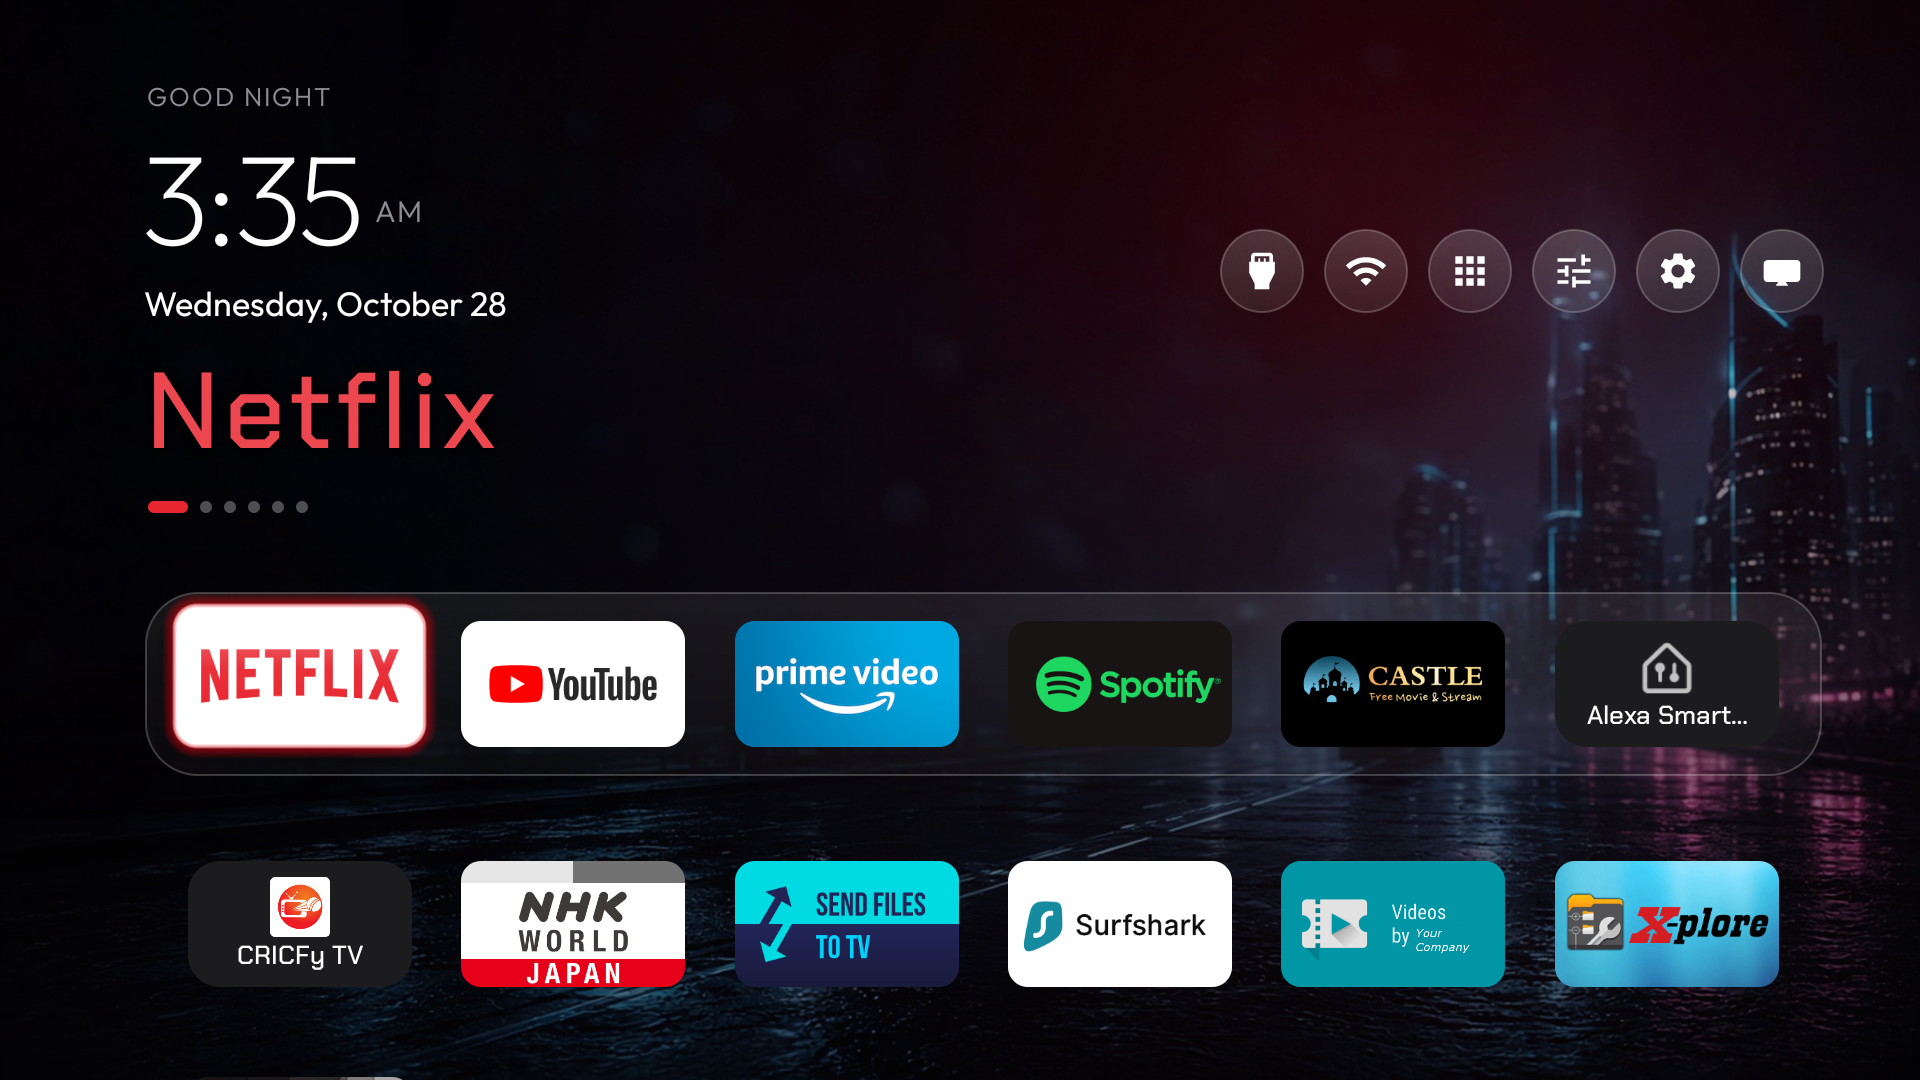
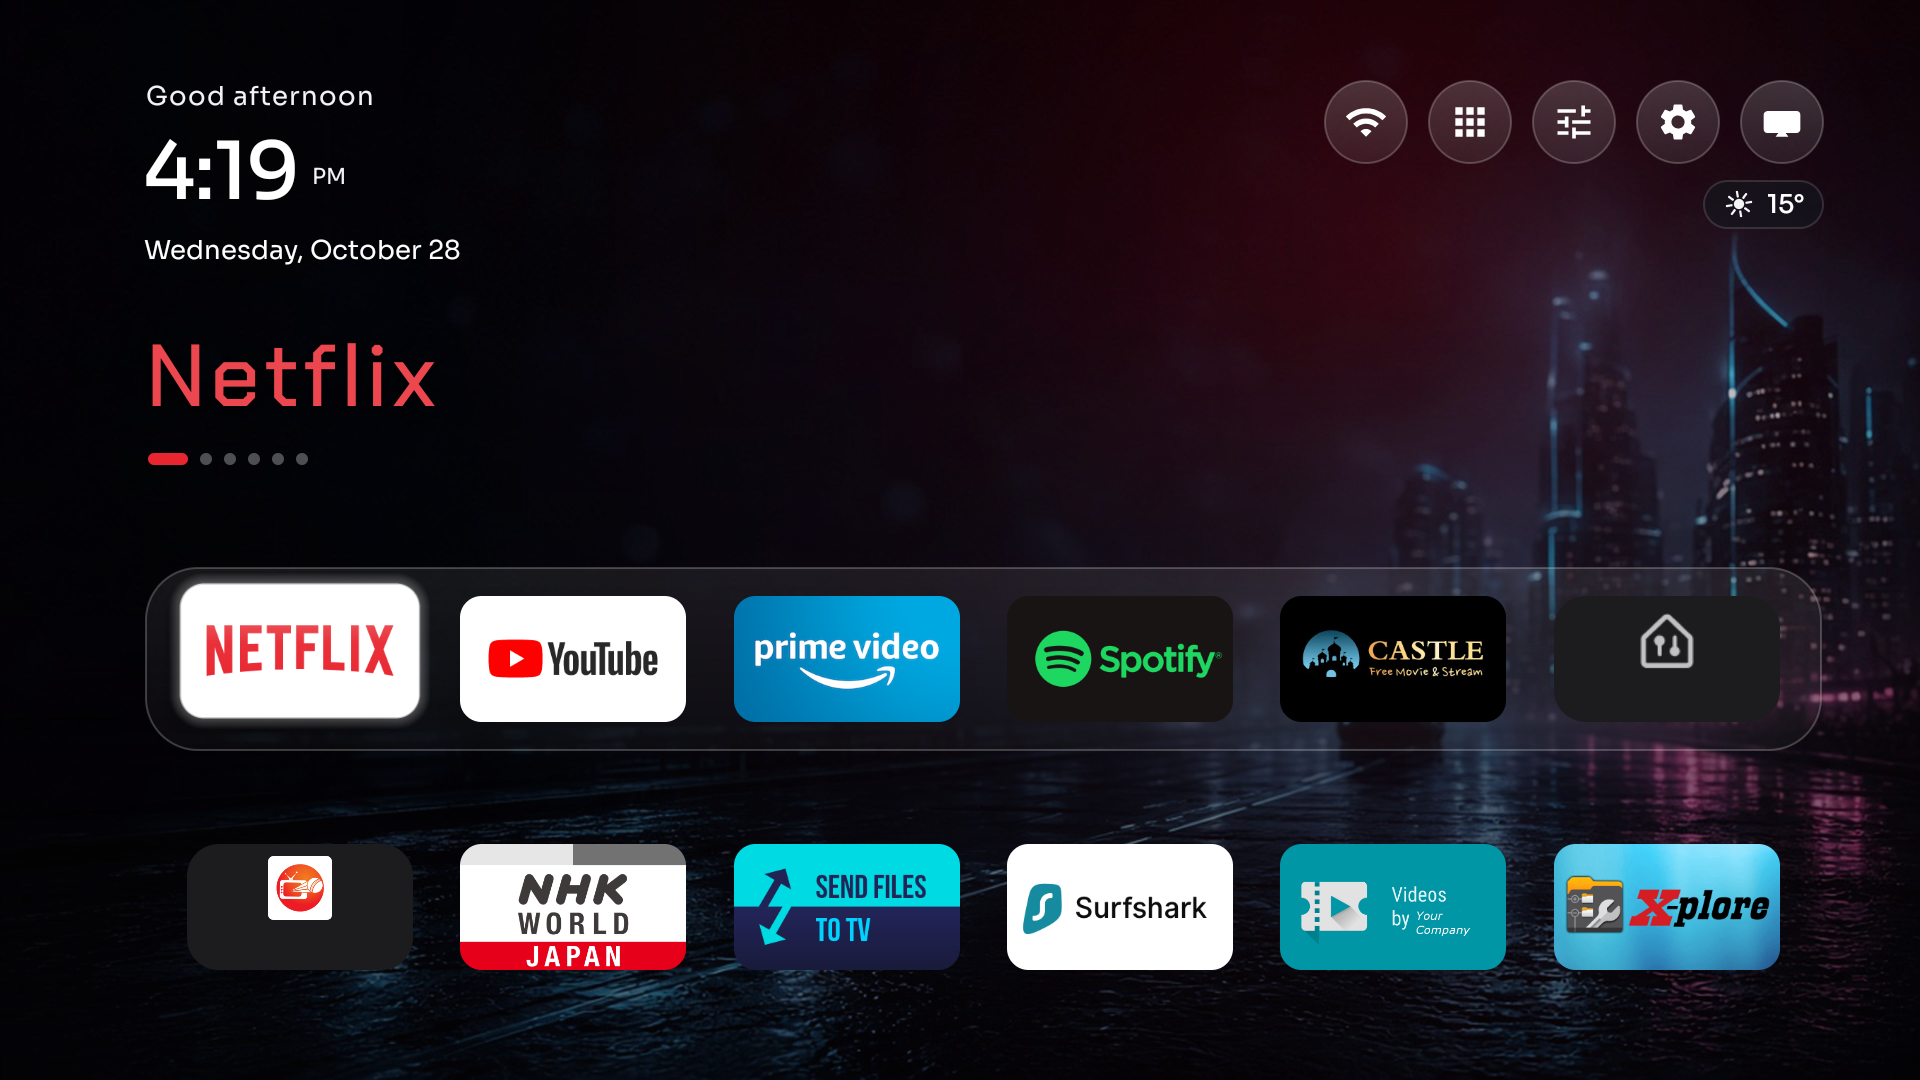
docs: a current home picture, and a guide that starts with install
The app name sits a little lower, matching the screen on the stick.

diff --git a/launcher/app/src/main/java/com/gathin/tvhome/MainActivity.java b/launcher/app/src/main/java/com/gathin/tvhome/MainActivity.java
@@ -1833,7 +1833,7 @@ public class MainActivity extends Activity implements AppAdapter.TileListener {
         int[] rootAt = new int[2];
         header.getLocationOnScreen(headerAt);
         root.getLocationOnScreen(rootAt);
-        return headerAt[1] - rootAt[1] + header.getHeight() + 8f * density;
+        return headerAt[1] - rootAt[1] + header.getHeight() + 26f * density;
     }
 
     private void showHero(int position, float anchorTop) {

diff --git a/README.md b/README.md
@@ -2,17 +2,70 @@
 
 # Cyber Fire TV
 
-A calm home screen for a Fire TV Stick.
+A quiet home screen for a Fire TV Stick.
 
 Press **Home**. Cyber opens.
 Your apps stay. The ads go quiet.
 Nothing is deleted.
 
-<img src="docs/home.png" alt="Cyber home screen: greeting, clock, the app name, and a row of apps" width="920">
+<img src="docs/home.png" alt="Cyber home: greeting, clock, the app name, and two rows of apps" width="920">
 
-<sub>Greeting and clock on the left. The app you are on, in the middle. Your apps along the bottom.</sub>
+<sub>Time on the left. The app you are on, in the middle. Your apps along the bottom. Pictures only.</sub>
 
 </div>
+
+---
+
+## Put it on the stick
+
+The stick and the computer sit on the **same Wi-Fi**.
+One command does the rest.
+
+```text
+        YOUR COMPUTER                         FIRE TV STICK
+   ┌──────────────────────┐              ┌──────────────────────┐
+   │                      │              │                      │
+   │    ./install.sh      │  same Wi-Fi  │   ADB debugging on   │
+   │                      │ ───────────► │   Unknown sources    │
+   │                      │              │                      │
+   └──────────────────────┘              └──────────────────────┘
+              │                                      │
+              │   1   ads go quiet                   │
+              │   2   Cyber is built                 │
+              │   3   the night look is applied      │
+              │   4   Home opens Cyber               ▼
+                                                Cyber is on screen
+```
+
+### On the stick, four taps
+
+1. **Settings → My Fire TV → Developer options**
+2. Turn on **ADB debugging**
+3. Turn on **Apps from Unknown Sources**
+4. **Settings → My Fire TV → About → Network** — write down the address
+
+### On the computer
+
+You need [JDK 17](https://adoptium.net/). On a Mac: `brew install openjdk@17`.
+
+```sh
+git clone https://github.com/RajNadiger/cyber-fire-tv.git
+cd cyber-fire-tv
+./install.sh 192.168.1.50
+```
+
+`192.168.1.50` is only an example. Type the address from the stick.
+
+When it finishes, press **Home**. Cyber is there.
+
+```text
+   you press Home
+         │
+         ▼
+   Cyber                    clock, name, your apps
+```
+
+The **TV** button opens Amazon’s own home. It stays until you press Home again.
 
 ---
 
@@ -20,8 +73,9 @@ Nothing is deleted.
 
 ```text
 ┌──────────────────────────────────────────────────────────────┐
-│  Good morning                              weather · buttons │
-│  9:41          Wednesday                              TV     │
+│  Good afternoon                            weather · buttons │
+│  4:19 PM                                                   │
+│  Wednesday, October 28                                      │
 │                                                              │
 │  Netflix                    the name stays on this line      │
 │  ━  ·  ·  ·  ·              the mark moves, the name does not│
@@ -29,34 +83,30 @@ Nothing is deleted.
 │  ┌──────┐ ┌──────┐ ┌──────┐ ┌──────┐ ┌──────┐ ┌──────┐      │
 │  │      │ │      │ │      │ │      │ │      │ │      │      │
 │  └──────┘ └──────┘ └──────┘ └──────┘ └──────┘ └──────┘      │
-│   the glass row. Pictures only. No words on the tiles.       │
+│   the glass row. Pictures only.                              │
 │                                                              │
 │   ┌────┐  ┌────┐  ┌────┐  ┌────┐  ┌────┐  ┌────┐            │
 │   └────┘  └────┘  └────┘  └────┘  └────┘  └────┘            │
-│   the next row, fully on screen, no names underneath        │
+│   the next row, fully on screen. No names under the pictures│
 └──────────────────────────────────────────────────────────────┘
 ```
 
 | You look at | It means |
 | --- | --- |
-| Greeting, clock, date | The time of day. The letters stay light. |
-| Large name | The app you have selected. It stays in the same place as you move left and right. Its colour follows that app. |
-| Short line and dots | Where you are along the row. “Last opened” sits under the name when there is one, and does not move the name. |
-| Glass row | Your main apps. Pictures only. Left and right. Press the centre to open one. |
+| Greeting, clock, date | The time of day. |
+| Large name | The app you have selected. It stays in the same place as you move. Its colour follows that app. |
+| Short line and dots | Where you are along the row. “Last opened” sits under the name and does not move it. |
+| Glass row | Your main apps. Pictures only. Press the centre to open one. |
 | The row under it | The next apps, fully on screen. No names under those pictures. |
-| Weather | A small live forecast at the top. Press it for the next hours. |
-| Round buttons | Wi-Fi, apps, and settings. The one you are on shows its name. A Fire TV Stick has no HDMI ports of its own, so there is no Inputs button. |
-| **TV** | Amazon’s own home. It stays until you press Home. |
+| Weather | A small forecast at the top. Press it for the next hours. |
+| Round buttons | Wi-Fi, apps, and settings. The one you are on shows its name. A Fire TV Stick has no HDMI ports, so there is no Inputs button. |
+| **TV** | Amazon’s own home, until you press Home. |
 
 ---
 
 ## The remote
 
 ```text
-                    ┌─────────┐
-                    │  power  │
-                    └─────────┘
-
                     ┌─────────┐
                     │  HOME   │     opens Cyber
                     └─────────┘
@@ -70,30 +120,18 @@ Nothing is deleted.
                     └─────────┘
 ```
 
-Home opens Cyber, including when you were in Netflix, YouTube, or any other app.
-After you tap the **TV** button, Amazon’s home stays up. Home brings Cyber back.
-
 ```text
-   left  /  right     move along a row, and stop at the ends
-   down             the same column, one row lower
-   down again       Restore, Second screen, then App library
-   up               back the way you came
-   up from the top  the round buttons. The chosen one shows its name
+   left  /  right     along a row, and stop at the ends
+   down               the same column, one row lower
+   down again         Restore, Second screen, then App library
+   up                 back the way you came
+   up from the top    the round buttons. The chosen one shows its name
 ```
 
-The top row stays in place when you move to the row under it. The name stays above the apps. One more step down keeps that row on screen and shows Restore and Second screen under it, each with its name. Right stops at the end of a row. Down from there reaches **App library**. Up comes back the same way.
+Home opens Cyber from Netflix, YouTube, or any other app.
+After the stick sleeps and wakes, Home still opens Cyber.
 
-Fire TV sometimes holds Amazon’s screen for a few seconds. That pause is Fire TV. Cyber comes forward as soon as the stick allows it.
-
-```text
-   you press Home
-         │
-         ▼
-   Amazon’s screen          a short pause, on some sticks
-         │
-         ▼
-   Cyber                    your clock, your apps
-```
+The top row stays in place when you move to the row under it. One more step down keeps that row on screen and shows Restore and Second screen, each with its name.
 
 ---
 
@@ -105,7 +143,7 @@ Open **Settings**, then **Your apps**.
    Your apps
    ┌─────────────────────┐     ┌─────────────────────┐
    │  Netflix            │     │                     │
-   │  YouTube            │     │      the tile       │
+   │  YouTube            │     │      the picture    │
    │  Prime Video     ▶  │ ──► │                     │
    │  Spotify            │     │   the name you set  │
    └─────────────────────┘     └─────────────────────┘
@@ -123,8 +161,6 @@ Open **Settings**, then **Your apps**.
 | The app’s own look back | **Put the app’s own look back**. |
 
 Home updates when you leave Settings.
-
-A picture can also be a jpg or png you copy into the stick’s `icons` folder, or into `mywallpapers`. Then open **Change the picture** again.
 
 **Font**, on the settings page, changes the letters for the clock, the date, and the names, all together.
 
@@ -162,10 +198,6 @@ Put `.jpg` or `.png` files here, with a file manager on the stick:
 
 ```text
 Android/data/com.gathin.tvhome/files/mywallpapers
-        │
-        ├──  night.jpg
-        ├──  rain.png
-        └──  desk.webp
 ```
 
 ---
@@ -180,50 +212,9 @@ Open **Second screen** on the TV. The screen itself is the guide.
    3  Press OK           the computer’s name appears, then the picture
 ```
 
-The panel on the right waits, then turns flat and offers **Show this screen**. Press OK. Back leaves the picture and returns to the guide.
-
 The computer needs [ffmpeg](https://ffmpeg.org/). On a Mac: `brew install ffmpeg`.
 
----
-
-## Put it on a stick
-
-One command. Apps stay installed. Ads are only switched off.
-
-```text
-   your computer                         Fire TV Stick
-   ┌─────────────────────┐               ┌─────────────────────┐
-   │  this folder        │   same Wi-Fi  │  ADB debugging on   │
-   │  ./install.sh       │ ────────────► │  Unknown sources on │
-   └─────────────────────┘               └─────────────────────┘
-          │                                         │
-          │   1  ads go quiet                       │
-          │   2  Cyber is built                     │
-          │   3  the night look is applied          │
-          │   4  Home opens Cyber                   ▼
-                                               Cyber is on screen
-```
-
-### On the stick
-
-1. **Settings → My Fire TV → Developer options**
-2. Turn on **ADB debugging**
-3. Turn on **Apps from Unknown Sources**
-4. Note the address under **Settings → My Fire TV → About → Network**
-
-### On the computer
-
-You need [JDK 17](https://adoptium.net/). On a Mac: `brew install openjdk@17`.
-
-```sh
-git clone https://github.com/RajNadiger/cyber-fire-tv.git
-cd cyber-fire-tv
-./install.sh 192.168.1.50
-```
-
-`192.168.1.50` is an example. Use the address from the stick.
-
-When it finishes, Home opens Cyber. The **TV** button opens Amazon’s home.
+Back leaves the picture and returns to the guide.
 
 ---
 
@@ -257,12 +248,14 @@ Undo the whole list. Amazon’s launcher is named so it is left on:
 TV_HOST=192.168.1.50 tools/restore.sh debloat/firetv.txt com.amazon.tv.launcher
 ```
 
+The **Restore** tile brings the earlier launcher back. It does not turn the quiet packages back on. Use `tools/restore.sh` for those.
+
 ---
 
 ## After the stick restarts
 
 ```text
-   unplug  →  plug in  →  turn the TV on  →  Cyber
+   unplug  →  plug in  →  turn the TV on  →  press Home  →  Cyber
 ```
 
 Fire TV will not let another app become the official Home app. Amazon’s launcher stays installed. Cyber watches the Home button and opens itself again.
@@ -274,9 +267,8 @@ Fire TV will not let another app become the official Home app. Amazon’s launch
 | What you see | What to do |
 | --- | --- |
 | The computer cannot find the stick | Same Wi-Fi. ADB debugging on. Use the address from About → Network. |
-| Home still shows Amazon | Wait a few seconds. If it never changes, run `./install.sh` again. |
+| Home still shows Amazon | Wait a few seconds, then press Home again. If it never changes, run `./install.sh` again. |
 | An app is missing from the row | It was switched off, not deleted. Turn that package back on, or run `tools/restore.sh`. |
-| You want the earlier launcher | Open the **Restore** tile. That does not turn the quiet packages back on. Use `tools/restore.sh` for those. |
 
 ---
 
